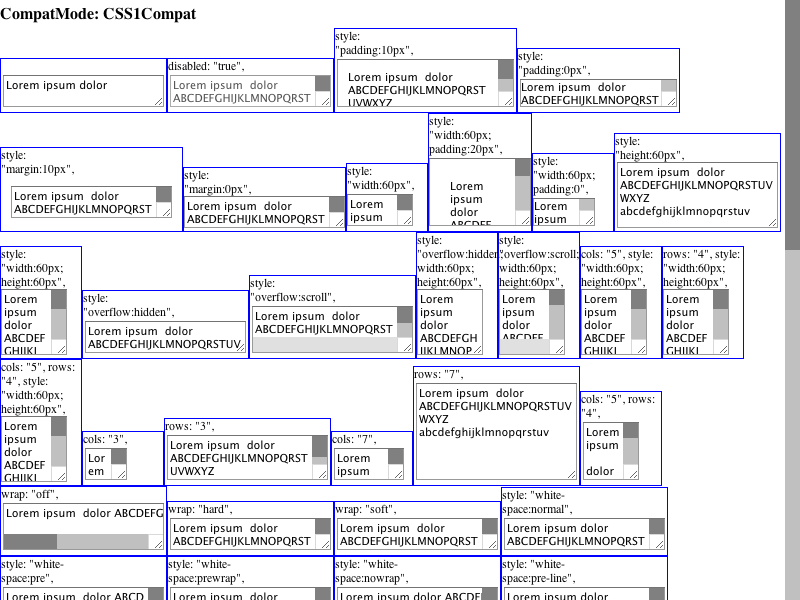
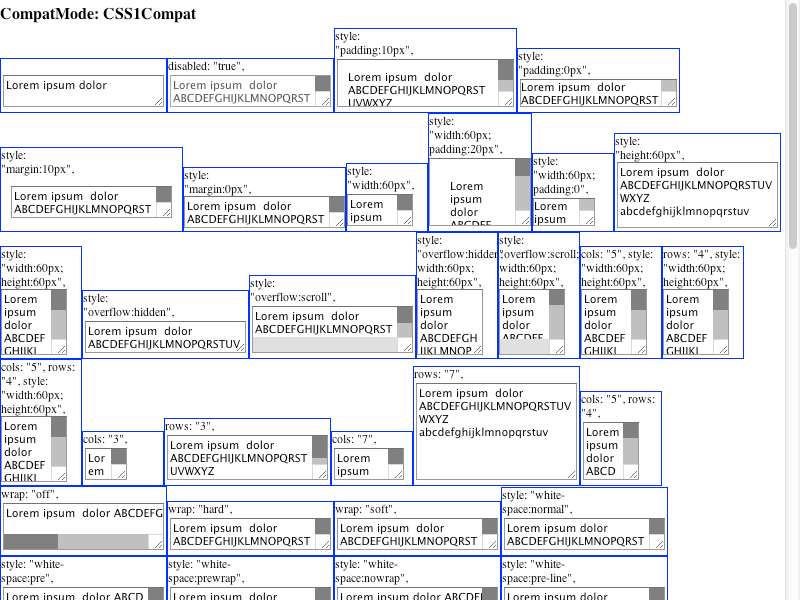
End of line whitespace should collapse with white-space:pre-wrap; overflow-wrap:break-word in all cases https://bugs.webkit.org/show_bug.cgi?id=124158
Source/WebCore: 

Reviewed by Dave Hyatt.
        
If a word just fits the line but the following space overflows we fail to collapse whitespaces 
at the end of the line. This happens because with break-word we end up taking word breaking
code path that does not have pre-wrap whitespace handling.
        
This patch makes the behavior consistent and also matches Firefox.

Test: fast/text/break-word-pre-wrap.html

* rendering/RenderBlockLineLayout.cpp:
(WebCore::BreakingContext::handleText):
        
    Don't take the word break code path if we are pre-wrap and the current character is space.
    Instead proceed to break the line normally as this is a valid break position.

LayoutTests: 

Reviewed by Dave Hyatt.
        
Added a specific test and updates the test results of some complex tests that demonstrate the same issue.

* fast/text/break-word-pre-wrap-expected.html: Added.
* fast/text/break-word-pre-wrap.html: Added.
* platform/mac/fast/forms/basic-textareas-expected.png:
* platform/mac/fast/forms/basic-textareas-expected.txt:
* platform/mac/fast/forms/basic-textareas-quirks-expected.png:
* platform/mac/fast/forms/basic-textareas-quirks-expected.txt:
* platform/mac-mountainlion/fast/forms/basic-textareas-expected.txt:
* platform/mac-mountainlion/fast/forms/basic-textareas-quirks-expected.txt:

git-svn-id: https://svn.webkit.org/repository/webkit/trunk@159071 268f45cc-cd09-0410-ab3c-d52691b4dbfc

diff --git a/LayoutTests/fast/text/break-word-pre-wrap.html b/LayoutTests/fast/text/break-word-pre-wrap.html
@@ -1,0 +1,6 @@
+<style>
+div { position:relative; white-space:pre-wrap; overflow-wrap: break-word; border:1px solid blue; font-family:ahem; }
+</style>
+<div style="width:4ex">xxxx   x</div>
+<div style="width:5ex">xxxx   x</div>
+<div style="width:6ex">xxxx   x</div>

diff --git a/LayoutTests/fast/text/break-word-pre-wrap-expected.html b/LayoutTests/fast/text/break-word-pre-wrap-expected.html
@@ -1,0 +1,10 @@
+<style>
+div { position:relative; white-space:pre; border:1px solid blue; font-family:ahem; }
+</style>
+<div style="width:4ex">xxx
+x
+x</div>
+<div style="width:5ex">xxxx
+x</div>
+<div style="width:6ex">xxxx
+x</div>

diff --git a/Source/WebCore/rendering/RenderBlockLineLayout.cpp b/Source/WebCore/rendering/RenderBlockLineLayout.cpp
@@ -3090,7 +3090,7 @@ inline bool BreakingContext::handleText(WordMeasurements& wordMeasurements, bool
 
         m_currentCharacterIsWS = m_currentCharacterIsSpace || (breakNBSP && c == noBreakSpace);
 
-        if ((breakAll || breakWords) && !midWordBreak) {
+        if ((breakAll || breakWords) && !midWordBreak && (!m_currentCharacterIsSpace || style.whiteSpace() != PRE_WRAP)) {
             wrapW += charWidth;
             bool midWordBreakIsBeforeSurrogatePair = U16_IS_LEAD(c) && m_current.m_pos + 1 < renderText->textLength() && U16_IS_TRAIL((*renderText)[m_current.m_pos + 1]);
             charWidth = textWidth(renderText, m_current.m_pos, midWordBreakIsBeforeSurrogatePair ? 2 : 1, font, m_width.committedWidth() + wrapW, isFixedPitch, m_collapseWhiteSpace, fallbackFonts, textLayout);
